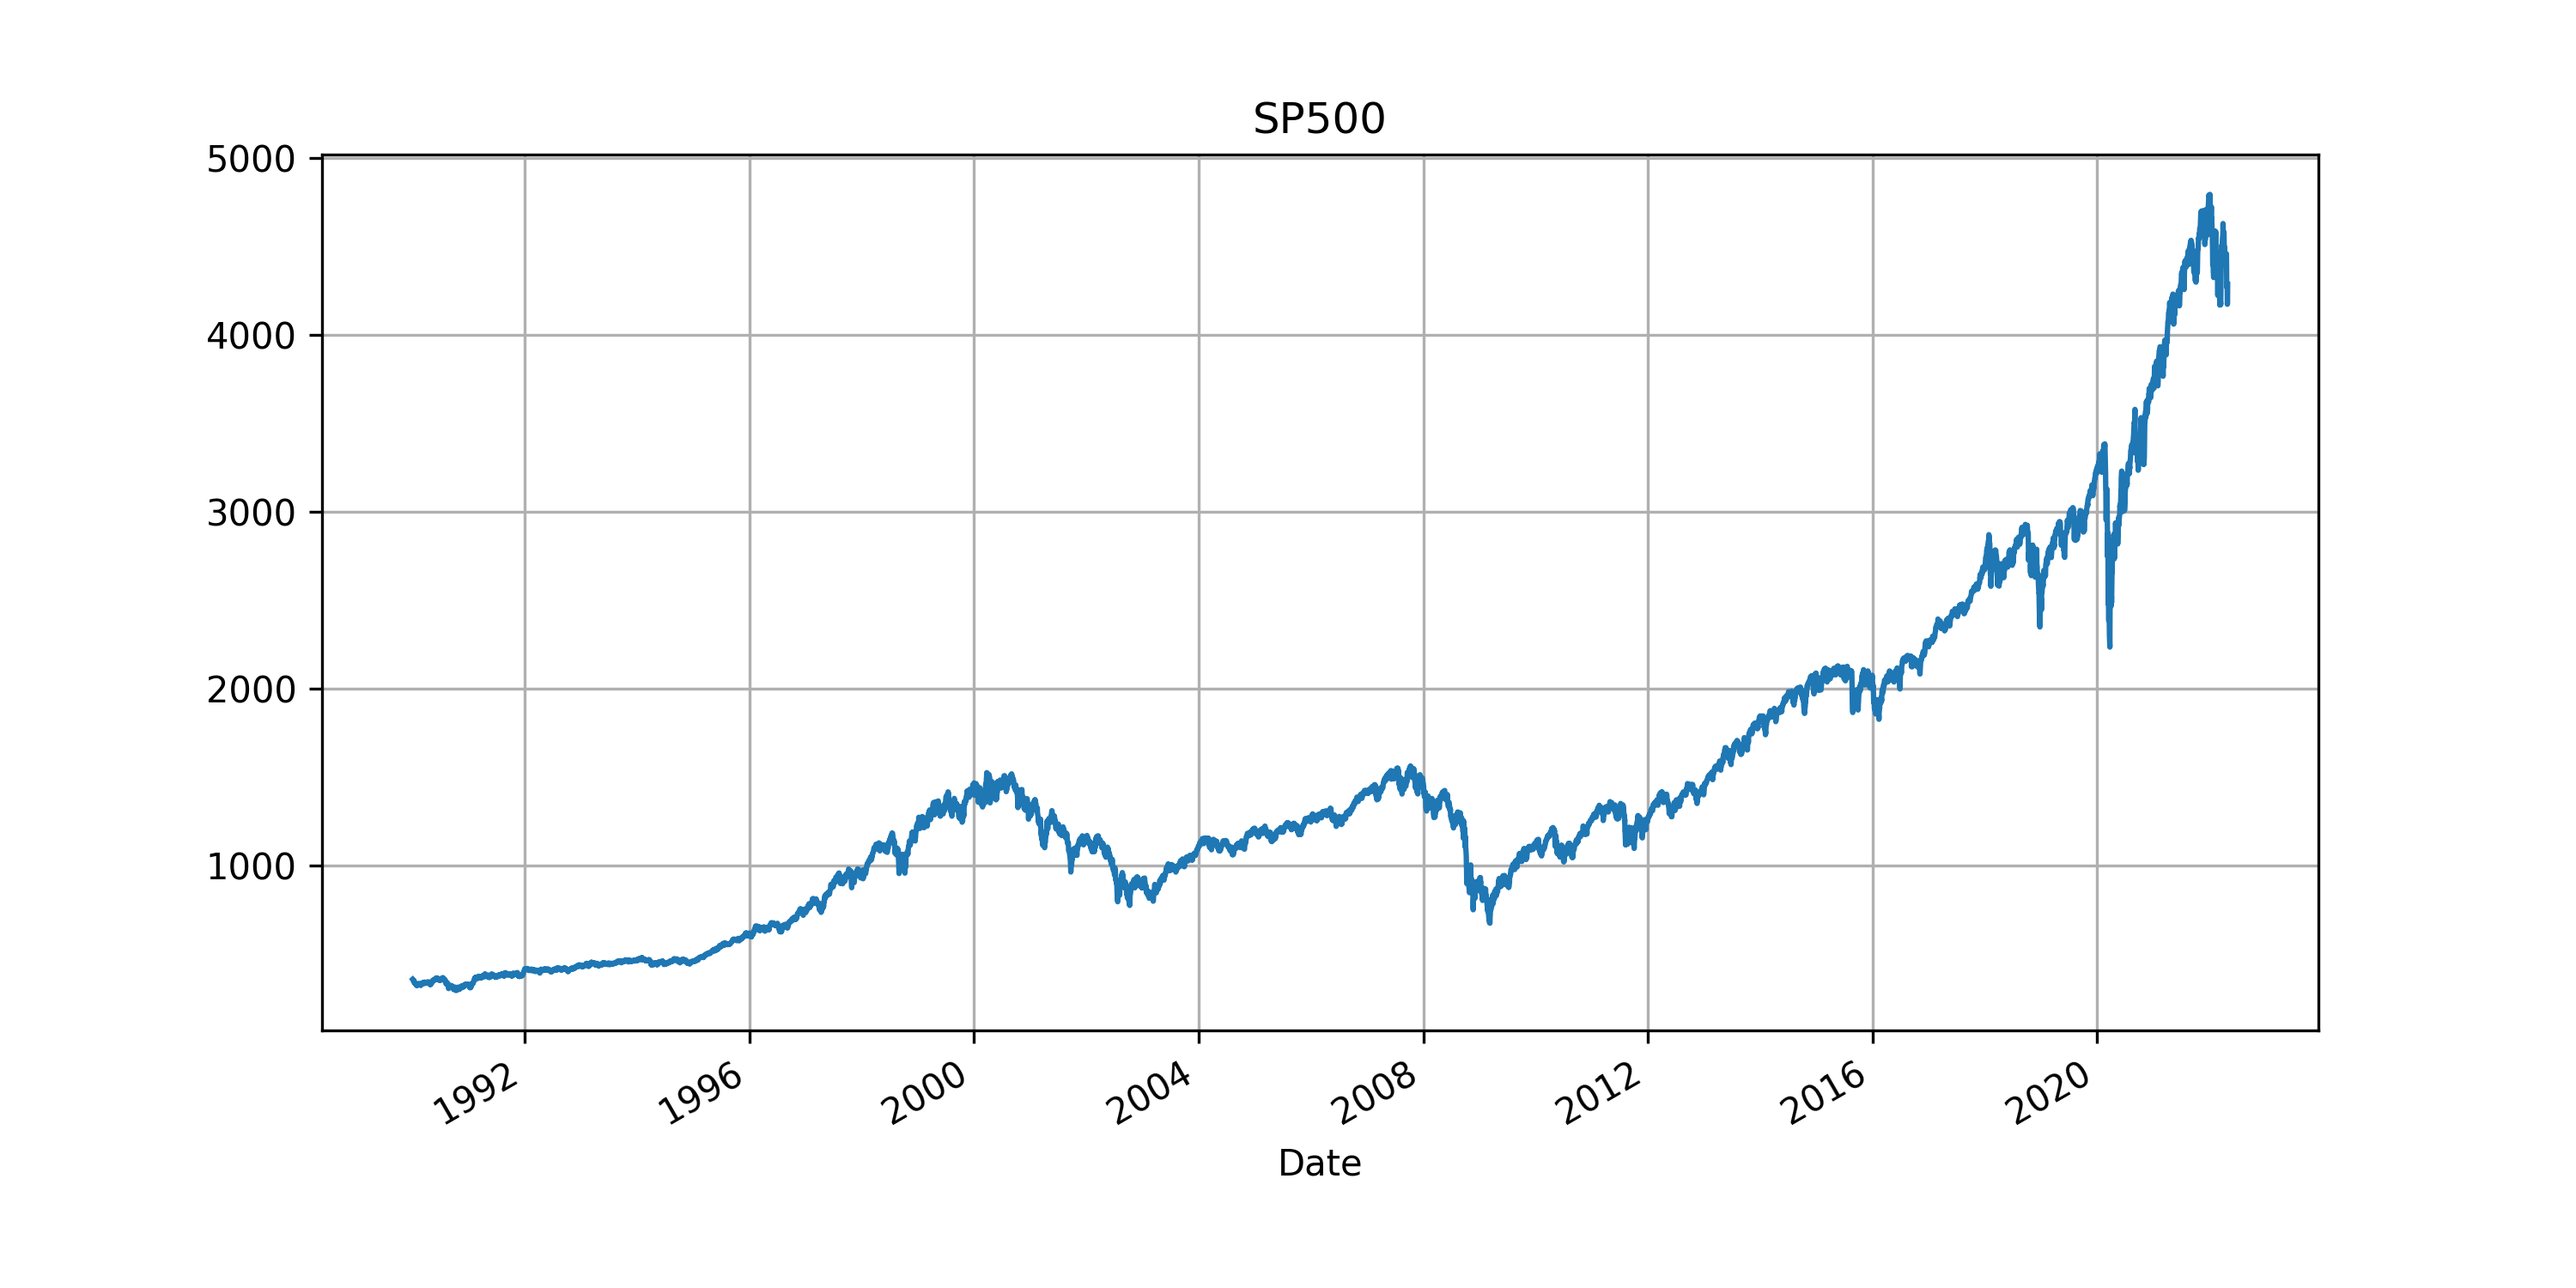
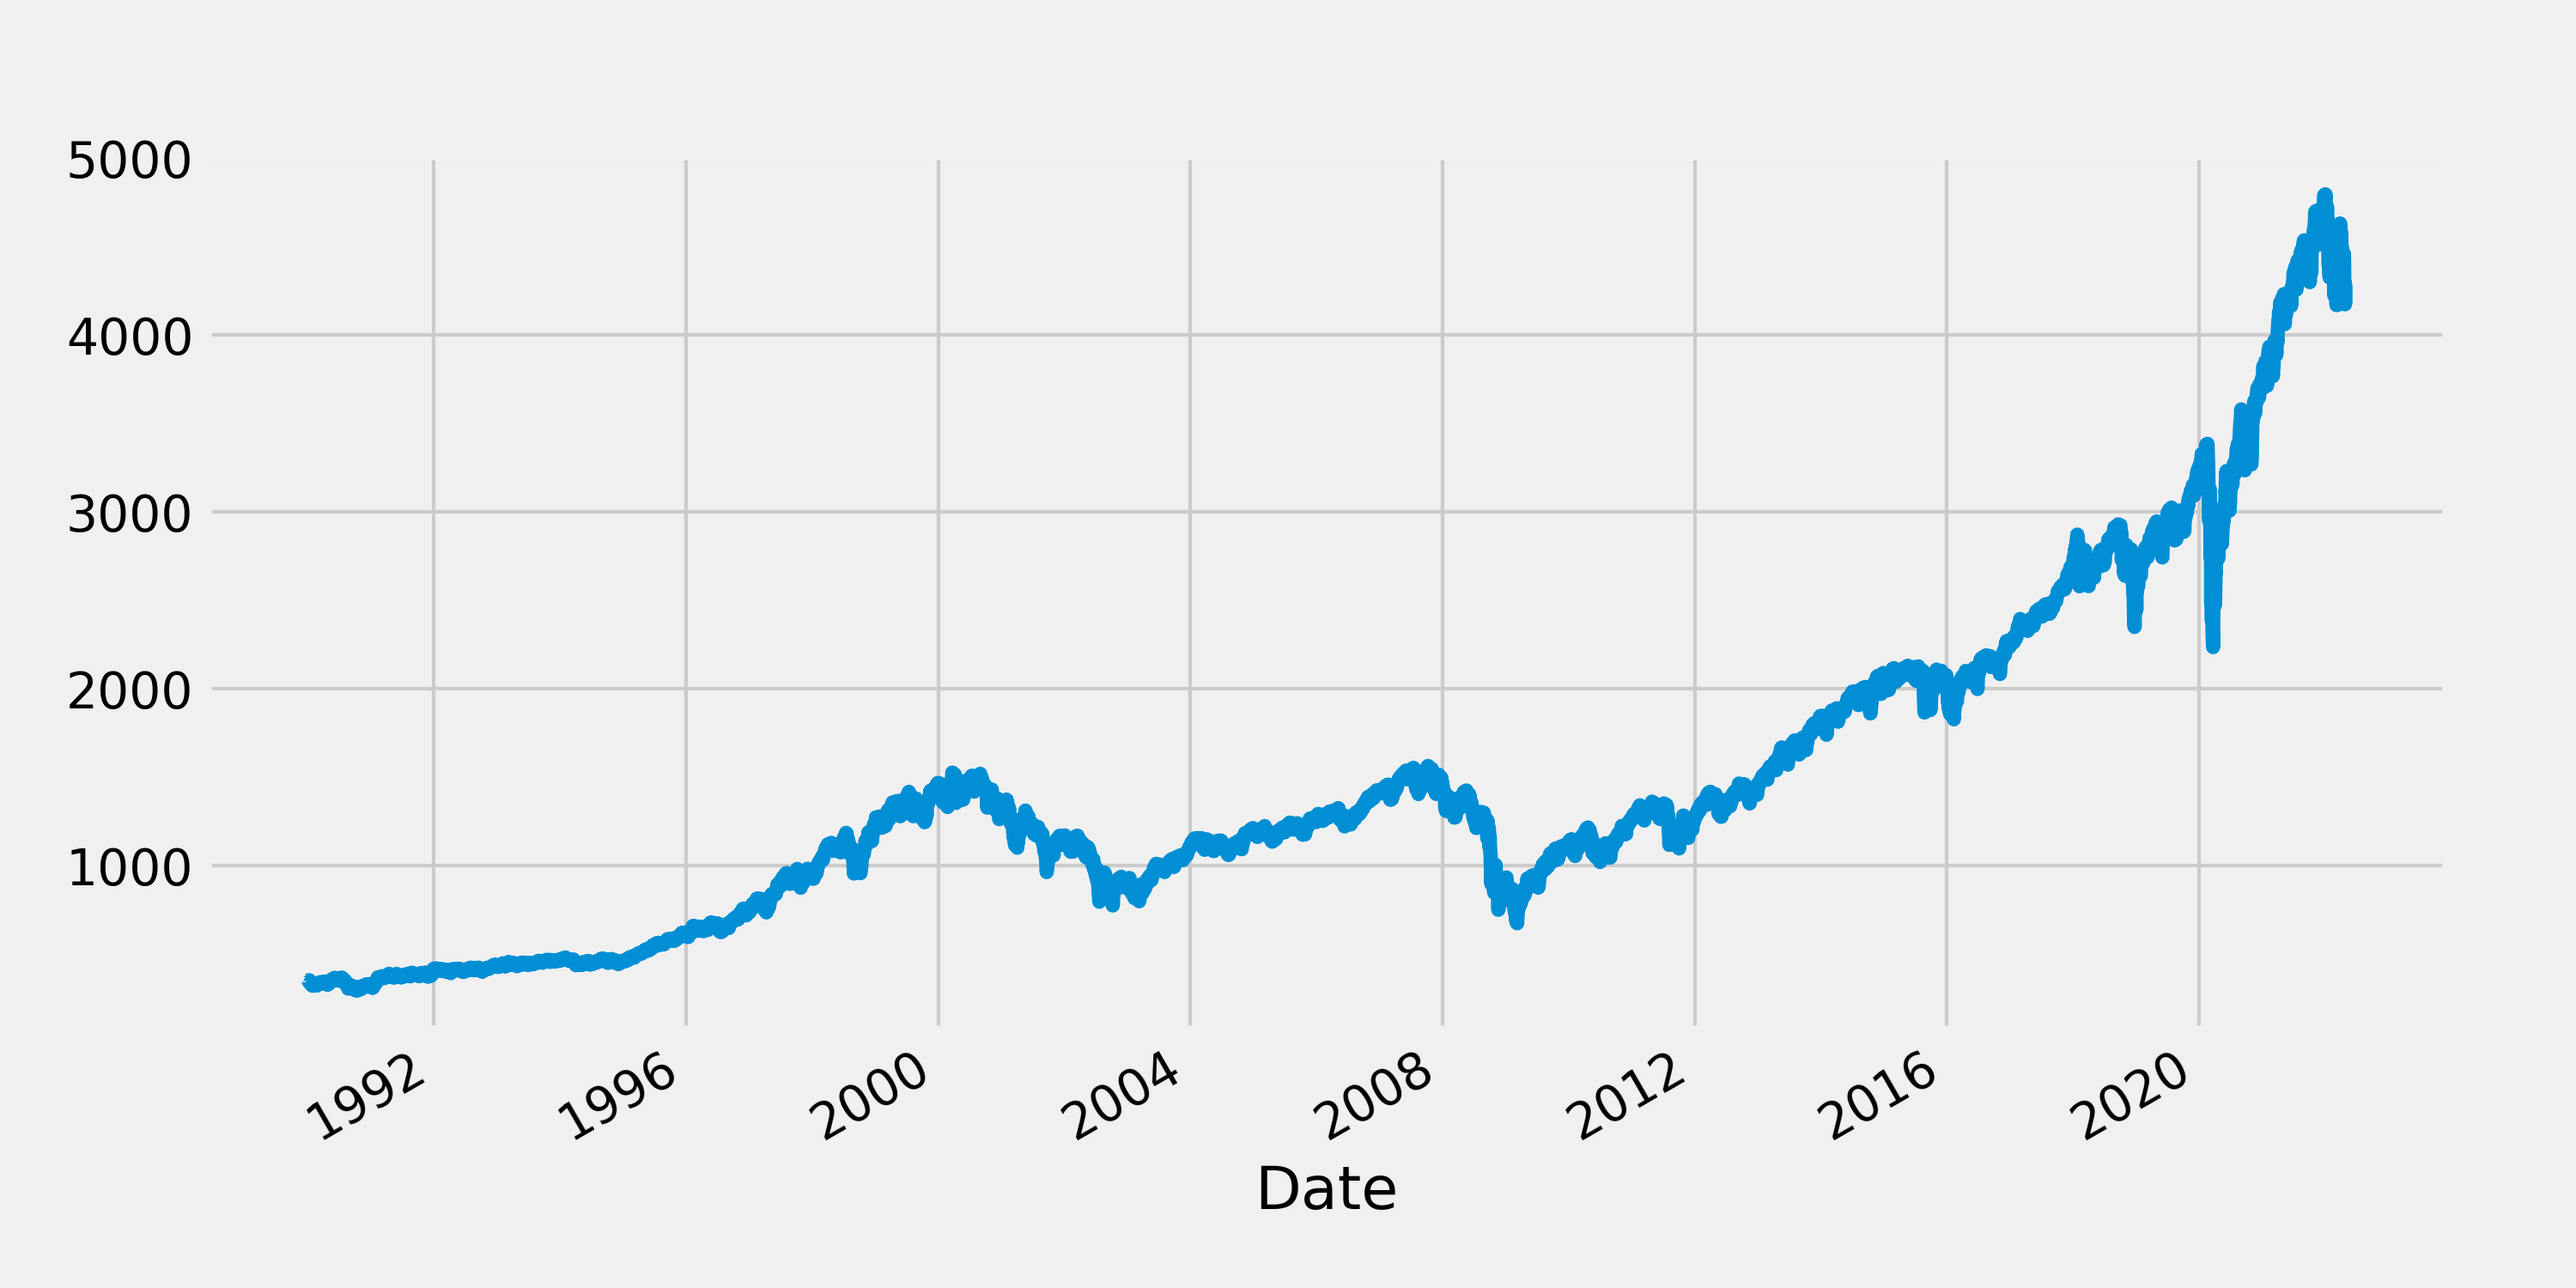
update .ipynb

diff --git a/main.py b/main.py
@@ -8,6 +8,7 @@
 # In the first chapter, we use the yfinance module to obtain financial series. In this notebook we focus on equity series. We illustrate the characteristics of the financial series that we seek to replicate in synthetic data.
 # %% Times Series
 # We use yfinance to download our targeted financial variables, the daily close price for the S&P 500.
+!pip install yfinance
 import os
 import numpy as np
 import matplotlib.pyplot as plt
@@ -26,20 +27,19 @@ df     = pd.DataFrame(yf.download(tickers_list,'1990-1-1')['Adj Close'])
 df     = df.rename(columns={'Adj Close':names[0]})
 
 #%% [markdown]
-# We plot our series of interest. We see that the series is non stationary.
+# We plot our series of interest, the series is non stationary.
 #%% Raw Series
-ax = df.plot(title=names[0], figsize=(10,5), legend=False)
+ax = df.plot(figsize=(10,5), legend=False)
 ax.grid(True)
 plt.savefig('./figure/SP500.png', dpi=300)
 plt.show()
 
 #%% [markdown]
-# The next plots show the returns for the S&P500 and its autocorrelation at various lag.
+# The next plots show the returns for the S&P500 and its autocorrelation at various lag orders.
 # %% Return process
 from preprocess.acf import acf, rolling_window
-
 returns = df.shift(1)/df - 1
-fig, axs = plt.subplots(ncols=2, figsize=(15, 5), legend=False)
+fig, axs = plt.subplots(ncols=2, figsize=(15, 5))
 
 axs[0].plot(returns[200:400])
 axs[0].set_title('Returns')
@@ -48,6 +48,7 @@ axs[1].set_title('Return Autocorrelation')
 
 for ax in axs: ax.grid(True)
 plt.setp(axs[0], xlabel='Day')
+plt.setp(axs[0].get_xticklabels(), rotation=45, ha='right')
 plt.setp(axs[1], xlabel='Lag (days)')
 plt.setp(axs[0], ylabel='Relative Returns')
 plt.setp(axs[1], ylabel='Autocorrelation')
@@ -57,9 +58,10 @@ plt.savefig('./figure/returns_val_corr.png', dpi=300)
 plt.show()
 
 # %% [markdown]
-# We also present log returns that have various advantages over simple returns (they are approximately normal, they are equal to cumulative return of the asset/portfolio and they are symmetric)
+# We also present log returns. They  have various advantages over simple returns (they are approximately normal, they are equal to cumulative return of the asset/portfolio and they are symmetric).
 # We calculate the log return series as,
 # $$r_t = \log\biggl(\frac{s_t}{s_{t-1}}\biggr) \text { for all } t \in \{1, ..., T\}.$$
+# As shown in [Chakraborti et al., 2011], log returns are not autocorrelated.
 # %% Log return process
 log_returns = np.log(df/df.shift(1))[1:].to_numpy().reshape(-1, 1)
 fig, axs = plt.subplots(ncols=2, figsize=(15, 5))

diff --git a/table/EMD_Scores.tex b/table/EMD_Scores.tex
@@ -3,9 +3,9 @@
 {} &  Earth Mover Distance \\
 window size &                       \\
 \midrule
-1           &              0.001519 \\
-5           &              0.005038 \\
-20          &              0.013074 \\
-100         &              0.039393 \\
+1           &              0.001682 \\
+5           &              0.005093 \\
+20          &              0.012452 \\
+100         &              0.042774 \\
 \bottomrule
 \end{tabular}
